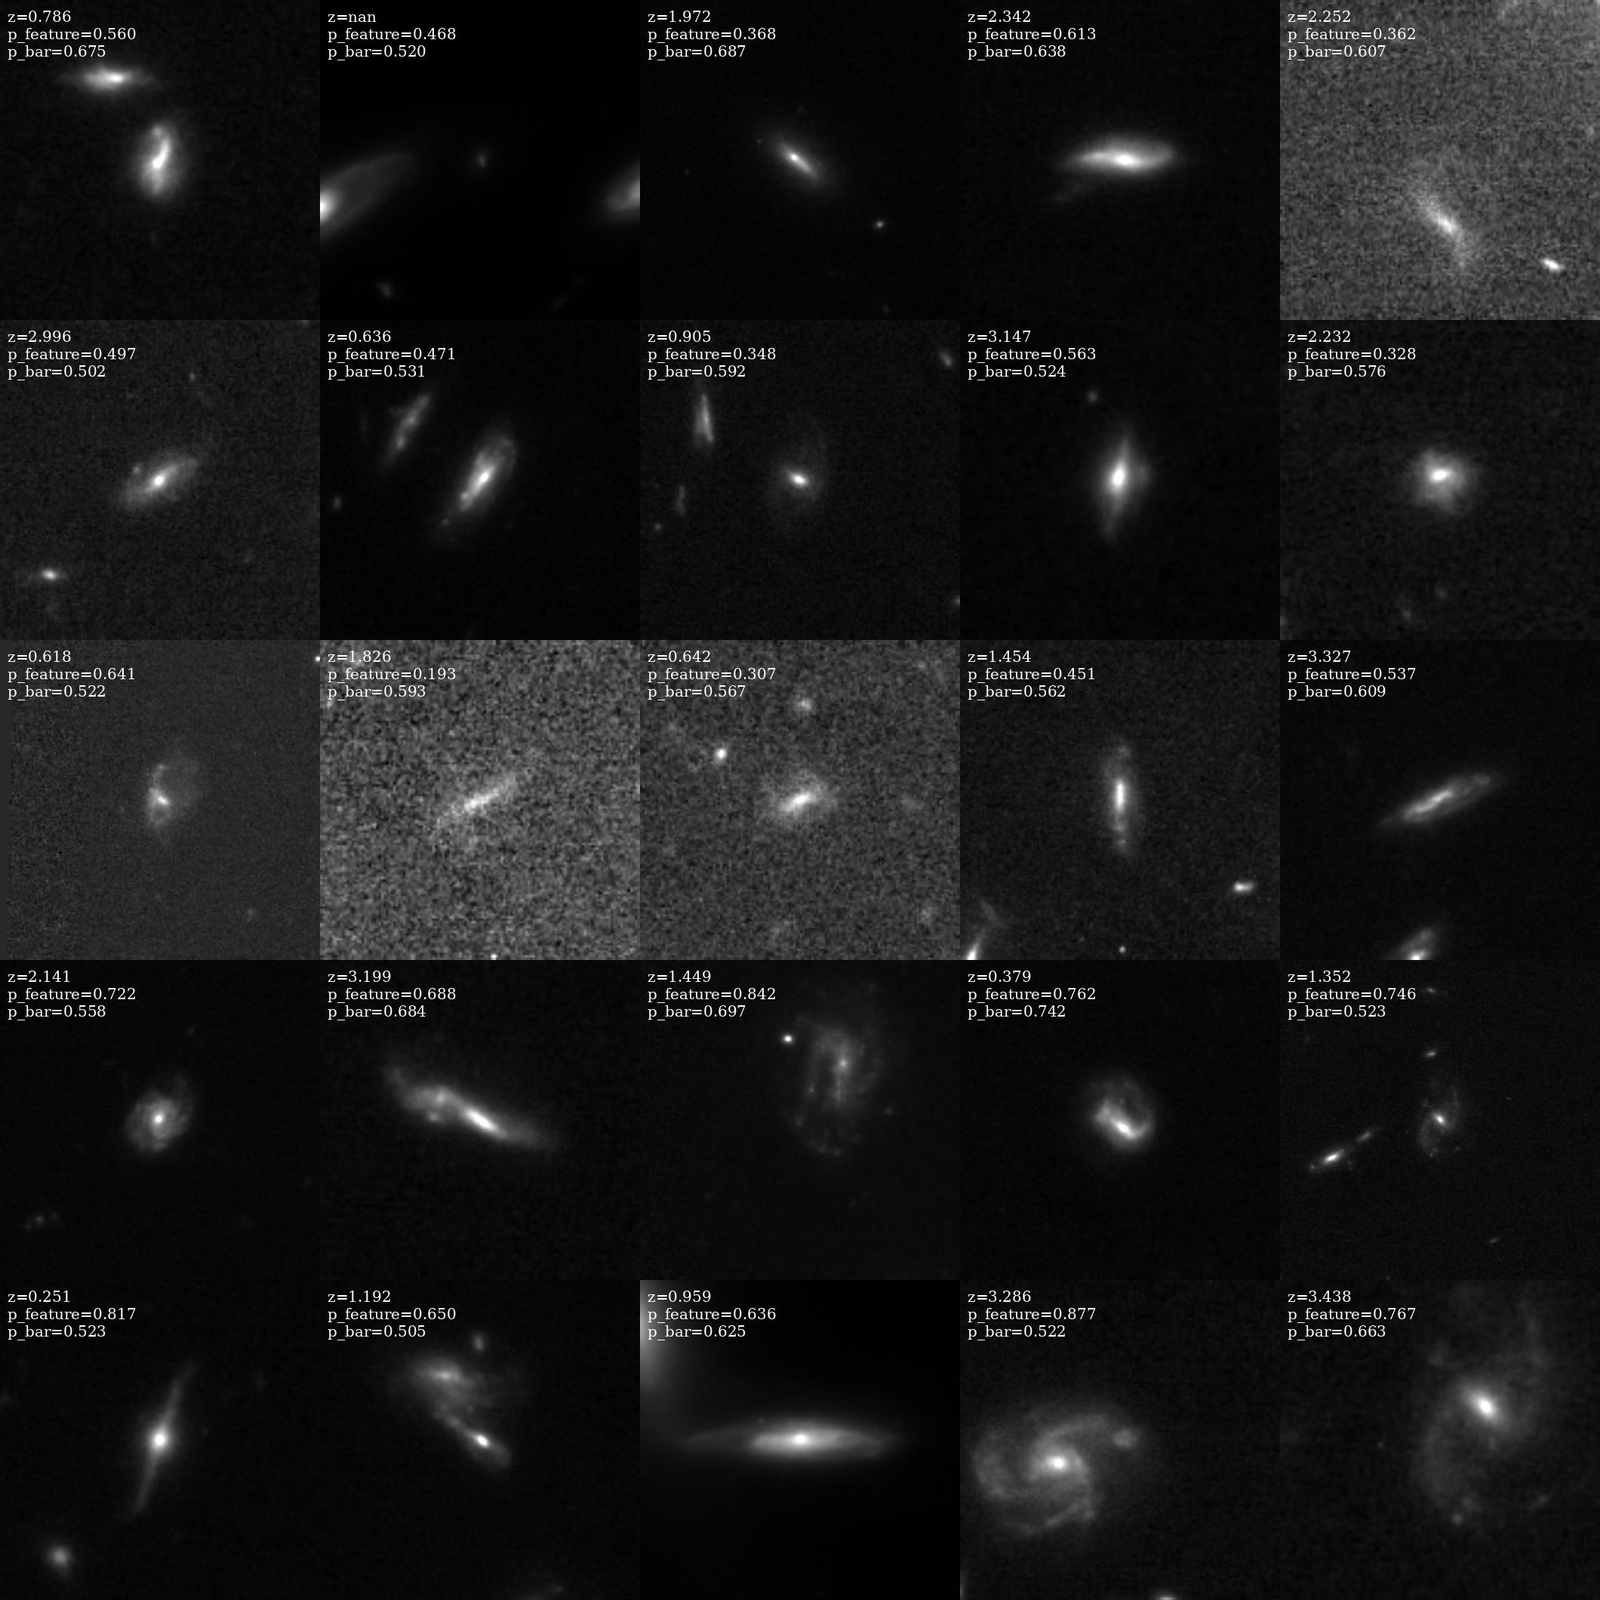
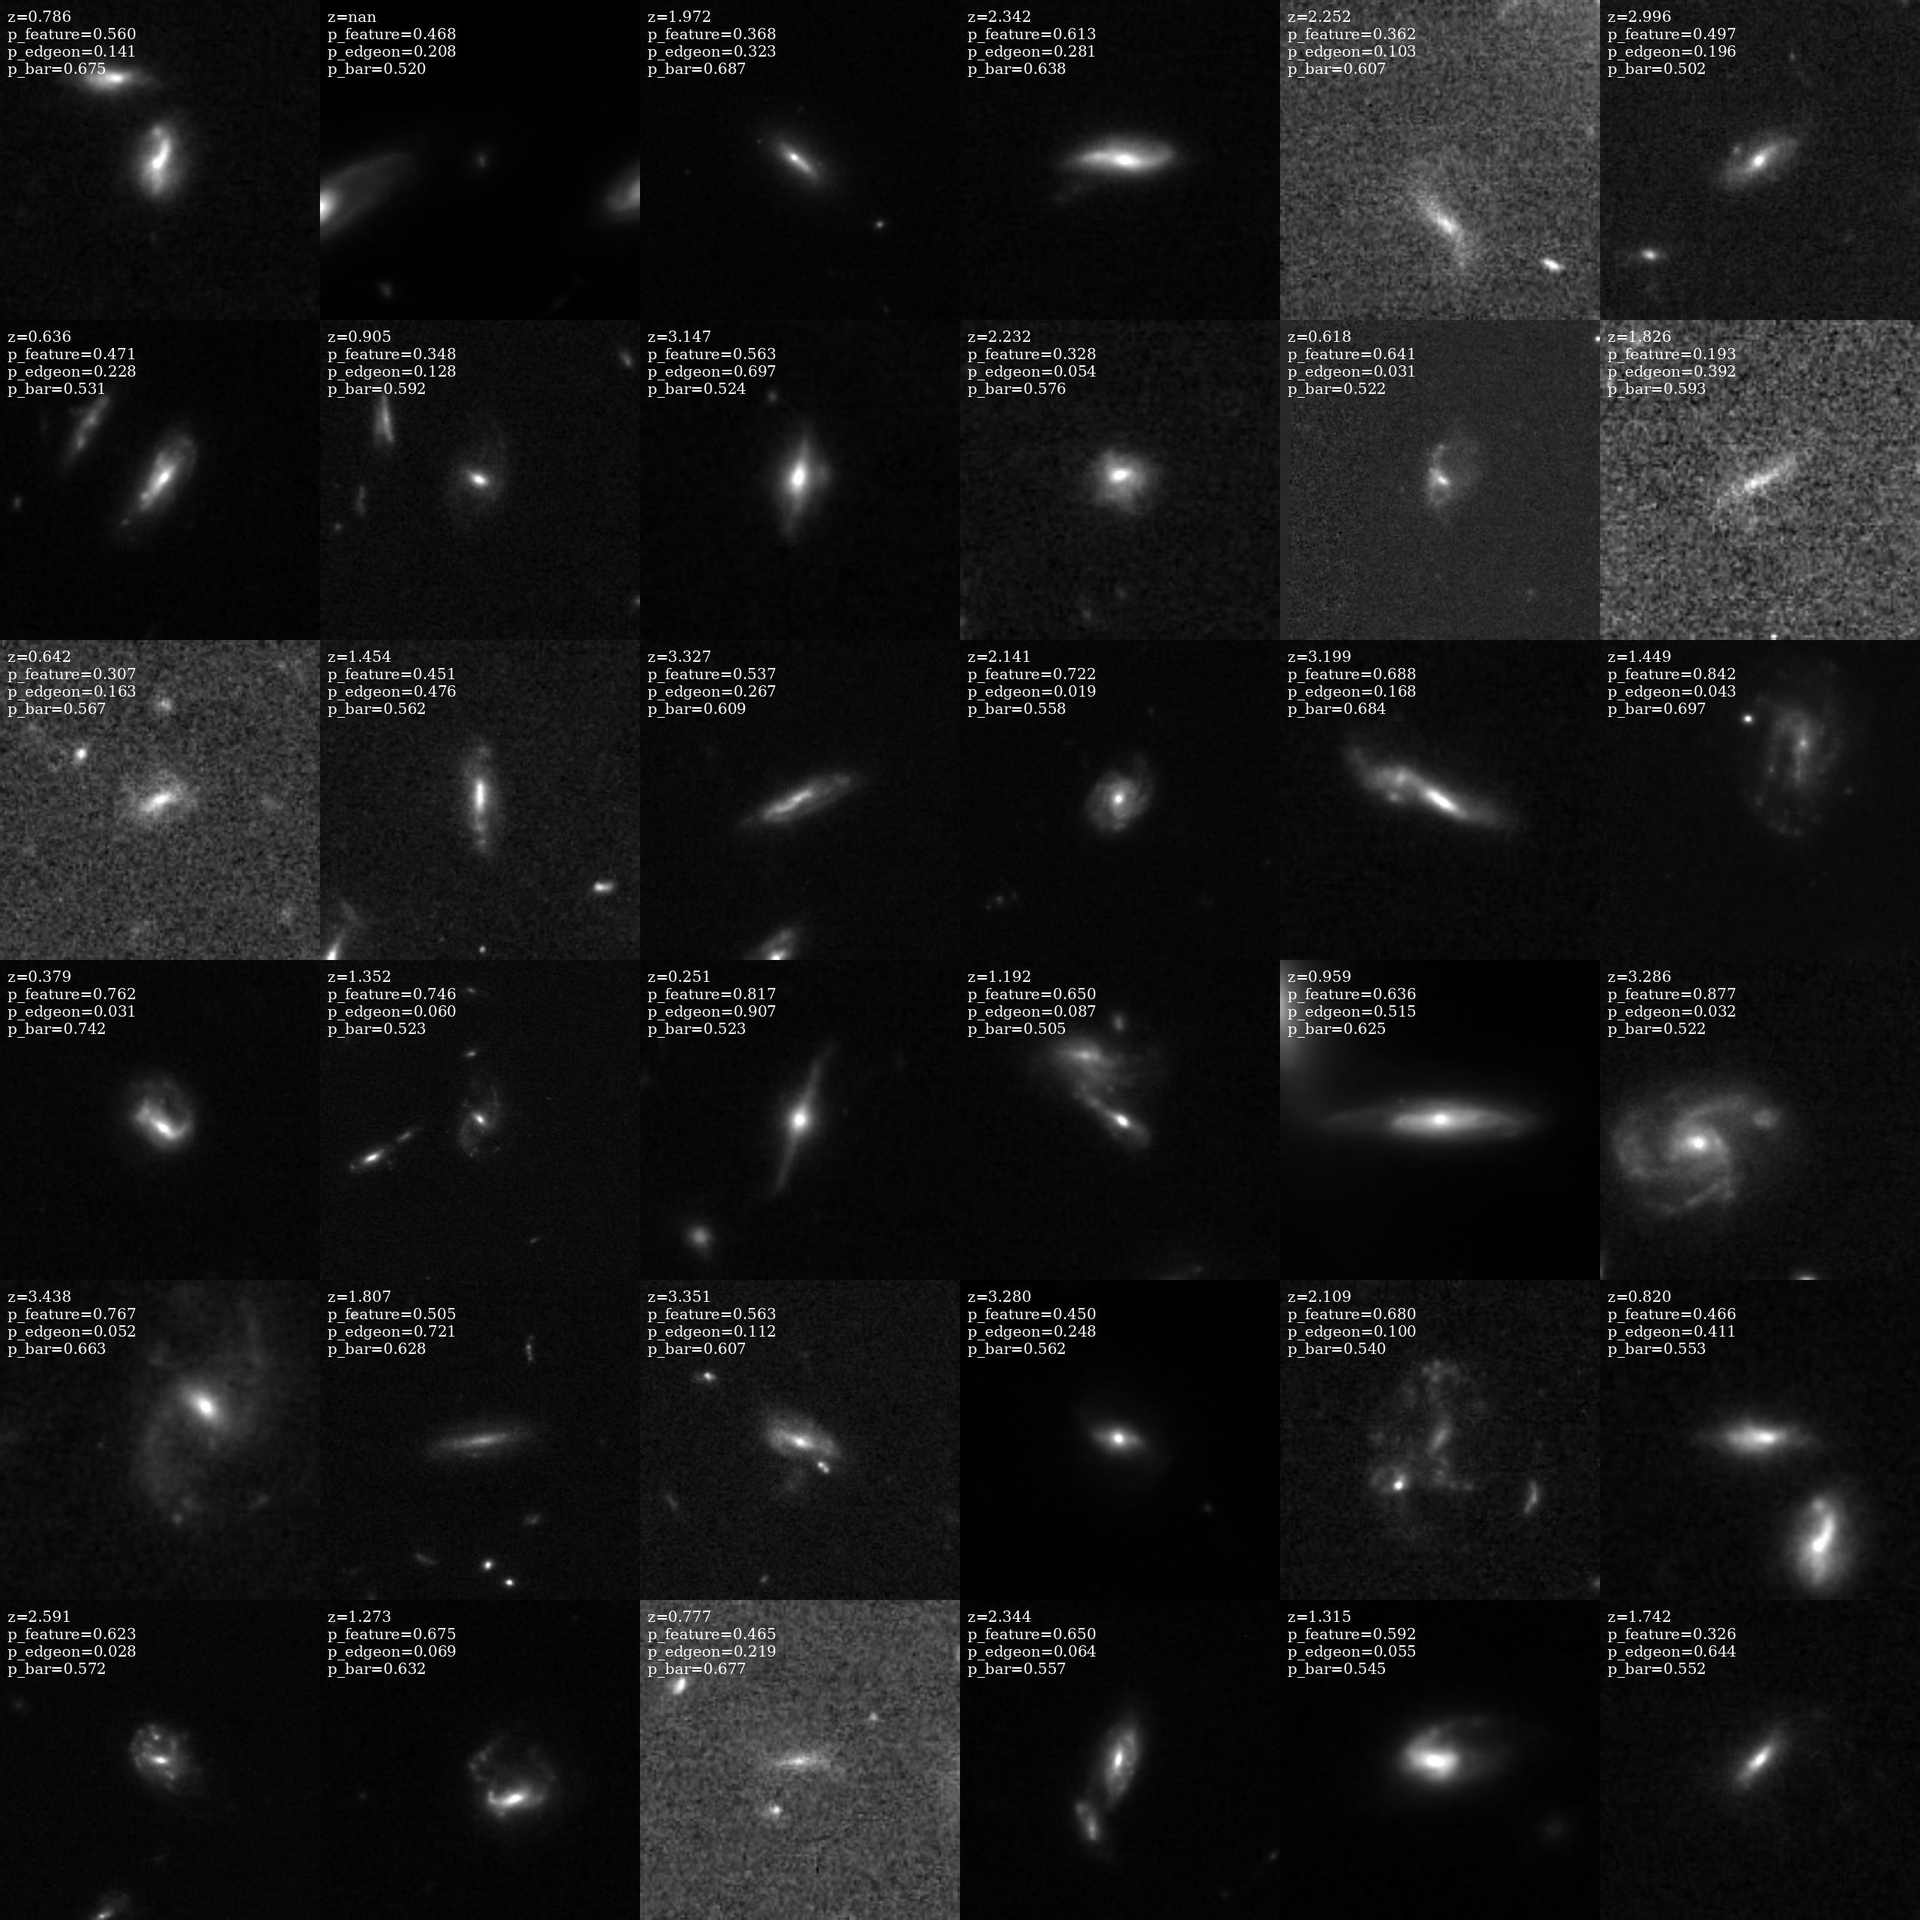
update

diff --git a/bar_estimate/F200W_pred/find_bars_F200W.py b/bar_estimate/F200W_pred/find_bars_F200W.py
@@ -26,6 +26,11 @@ count_feature = pred['t0_smooth_or_featured__features_or_disk_pred'].values
 count_smooth = pred['t0_smooth_or_featured__smooth_pred'].values
 count_artifact = pred['t0_smooth_or_featured__star_artifact_or_bad_zoom_pred'].values
 p_feature = count_feature/(count_feature+count_smooth+count_artifact)
+p_artifact = count_artifact/(count_feature+count_smooth+count_artifact)
+
+count_edgeon = pred['t2_could_this_be_a_disk_viewed_edgeon__yes_edge_on_disk_pred'].values
+count_nonedgeon = pred['t2_could_this_be_a_disk_viewed_edgeon__no_something_else_pred'].values
+p_edgeon = count_edgeon/(count_edgeon+count_nonedgeon)
 
 count_strong = pred['t4_is_there_a_bar__strong_bar_pred'].values
 count_weak = pred['t4_is_there_a_bar__weak_bar_pred'].values
@@ -34,25 +39,36 @@ p_strong = count_strong/(count_strong+count_weak+count_none)
 p_weak = count_weak/(count_strong+count_weak+count_none)
 
 p_bar = p_strong+p_weak
-print(np.sum(p_bar>0.5),np.sum(p_bar>0.4),np.sum(p_bar>0.3),np.sum(p_bar>=0))
 
+for p in [0.5, 0.4, 0.3, 0.2, 0.1, 0]:
+    disky = (p_feature>0.3)&(p_edgeon<0.5)
+    print(p, np.sum(disky))
+    print(np.sum(disky&(p_bar>0.5)),np.sum(disky&(p_bar>0.4)),np.sum(disky&(p_bar>0.3)),np.sum(disky&(p_bar>=0)))
+
+
+# plt.scatter(p_feature, p_artifact, s=1)
+# plt.xlim(0,1)
+# plt.ylim(0,1)
+# plt.xlabel("p_feature")
+# plt.ylabel("p_artifact")
+# plt.savefig("bar_estimate/F200W_pred/artifact.jpg")
 
 SIZE = 424
-max_bar_image_F200W = Image.new('L', (SIZE*5, SIZE*5))
+max_bar_image_F200W = Image.new('L', (SIZE*6, SIZE*6))
 draw_max = ImageDraw.Draw(max_bar_image_F200W)
 font = ImageFont.truetype(fm.findfont(fm.FontProperties(family='serif')),size=20)
 
 
-max_bar_ids = np.where(p_bar<0.1)[0]
+max_bar_ids = np.where(p_bar<0.2)[0]
 i = 0
 for bar_id in max_bar_ids:
     image_path = os.path.join(image_dir, "F200W_%i.jpg"%id[bar_id])
     image = Image.open(image_path)
-    max_bar_image_F200W.paste(image, (SIZE*(i%5), SIZE*(i//5)))
-    draw_max.text((SIZE*(i%5)+10, SIZE*(i//5)+10), f'z={z[bar_id]:.3f}\np_feature={p_feature[bar_id]:.3f}\np_bar={p_bar[bar_id]:.3f}', font=font, fill=255)
+    max_bar_image_F200W.paste(image, (SIZE*(i%6), SIZE*(i//6)))
+    draw_max.text((SIZE*(i%6)+10, SIZE*(i//6)+10), f'z={z[bar_id]:.3f}\np_feature={p_feature[bar_id]:.3f}\np_edgeon={p_edgeon[bar_id]:.3f}\np_bar={p_bar[bar_id]:.3f}', font=font, fill=255)
     i += 1
     
-    if i == 25:
+    if i == 36:
         break
     
 max_bar_image_F200W.save("bar_estimate/F200W_pred/min_bars.jpg")
